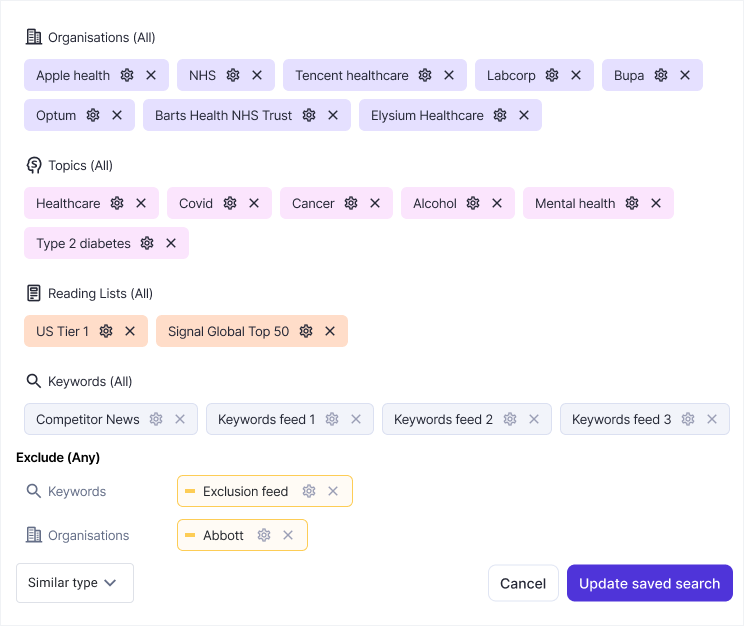
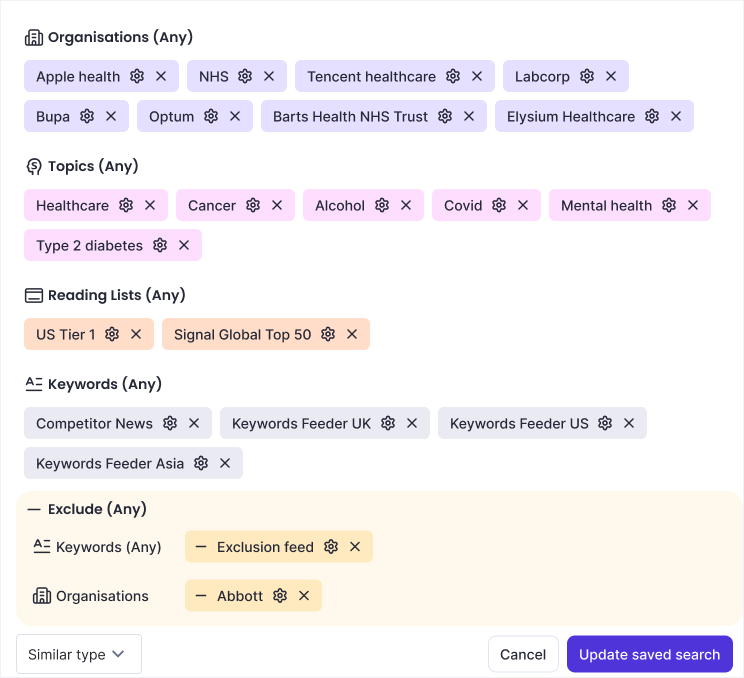
Invite readers into the book with a coffee mug, and stack the Year 4 screenshots
The Book option of the view switch shows a steaming mug. The quick scan
ends with one book invitation card, apart from the way back. Shift 03
shows before and after as two overlapping cards that swap on click.
Also takes in the updated structure-after screenshot and its description.

diff --git a/src/components/search-evolution/ScanPage.tsx b/src/components/search-evolution/ScanPage.tsx
@@ -11,6 +11,8 @@
 import { useState, type ReactNode } from 'react';
 import { ArrowLeft, ArrowRight, ChevronsLeftRight, MousePointerClick } from 'lucide-react';
 import { AskTopicsDemo, RefineDemo, SCALE_ROWS, Shot, USE_CASES } from './demos';
+import { HardcoverBook } from './HardcoverBook';
+import { SteamMug } from './StoryBook';
 
 const TAGS = ['Product design', 'Search', 'AI', 'B2B SaaS'];
 
@@ -170,6 +172,62 @@ function TwoStepShot({ steps, caption }: { steps: [Step, Step]; caption: ReactNo
         />
       </div>
       <figcaption className="mt-2 text-[12px] leading-5 text-muted-foreground">{caption}</figcaption>
+    </figure>
+  );
+}
+
+/**
+ * Two screenshots as a pile of two cards: the "after" lies partly over the
+ * "before". Clicking either card swaps which one is on top.
+ */
+function StackedShots({
+  before,
+  after,
+  caption,
+}: {
+  before: { src: string; alt: string };
+  after: { src: string; alt: string };
+  caption: ReactNode;
+}) {
+  const [front, setFront] = useState<'before' | 'after'>('after');
+  const card = (which: 'before' | 'after', shot: { src: string; alt: string }, place: string) => {
+    const onTop = front === which;
+    return (
+      <button
+        type="button"
+        onClick={() => setFront(onTop ? (which === 'before' ? 'after' : 'before') : which)}
+        aria-pressed={onTop}
+        aria-label={`${which === 'before' ? 'Before' : 'After'} screenshot, ${
+          onTop ? 'on top' : 'underneath: bring to the top'
+        }`}
+        className={`group absolute cursor-pointer rounded-xl transition-[transform,filter,opacity] duration-300 ease-out focus-visible:outline-2 focus-visible:outline-offset-2 focus-visible:outline-primary-strong motion-reduce:transition-none ${place} ${
+          onTop
+            ? 'z-[2] drop-shadow-[0_10px_18px_rgba(44,36,22,0.22)]'
+            : 'z-[1] scale-[0.97] opacity-80 saturate-[0.7] hover:opacity-100 hover:saturate-100'
+        }`}
+      >
+        <img src={shot.src} alt={shot.alt} className="block w-full" draggable={false} />
+        <span
+          className={`pointer-events-none absolute left-5 top-0 rounded-full px-2.5 py-1 shadow-sm text-[11px] font-medium uppercase tracking-[0.12em] ${
+            which === 'before' ? 'bg-white text-[#22242E]' : 'bg-[#22242E] text-white'
+          }`}
+          aria-hidden="true"
+        >
+          {which === 'before' ? 'Before' : 'After'}
+        </span>
+      </button>
+    );
+  };
+  return (
+    <figure>
+      <div className="relative aspect-[10/7]">
+        {card('before', before, 'left-0 top-0 w-[80%] origin-top-left')}
+        {card('after', after, 'bottom-0 right-0 w-[72%] origin-bottom-right')}
+      </div>
+      <figcaption className="mt-2 flex items-start gap-1.5 text-[12px] leading-5 text-muted-foreground">
+        <MousePointerClick className="mt-0.5 size-3.5 shrink-0" aria-hidden="true" />
+        <span>{caption}</span>
+      </figcaption>
     </figure>
   );
 }
@@ -462,7 +520,7 @@ export function ScanPage({
               }}
               after={{
                 src: img('structure-after.png'),
-                alt: 'After: the same kind of search as labelled rows. Organisations, Topics, Reading Lists and Keywords each have their own row, with a separate Exclude section below.',
+                alt: 'After: the same kind of search as labelled rows. Organisations, Topics, Reading Lists and Keywords each have their own colour-coded row, with a highlighted Exclude section below holding its own keywords and organisations.',
               }}
               caption="Product screenshots. Drag the divider: one unlabelled wall of terms, then the same kind of search as labelled rows."
             />
@@ -476,10 +534,16 @@ export function ScanPage({
             problem="Users could only group entities of the same type, so one question still needed several linked searches."
             design="Groups that mix companies, products and sources, each with its own AND, OR and NOT."
           >
-            <Shot
-              src={img('v2-search.png')}
-              alt="The old dark search builder behind the new one. The new builder has two groups of terms, each with its own AND or OR switch, and a separate exclusion group."
-              caption="Product screenshot. Mars and its products in one group, sources in another, exclusions in a third."
+            <StackedShots
+              before={{
+                src: img('grouping-before.png'),
+                alt: 'Before: three saved searches in the old dark builder, joined by red arrows. Each search pulls in other saved searches, such as Mars Food UK, which is itself built from separate Dolmio, Ben’s Original and Mars Food searches.',
+              }}
+              after={{
+                src: img('grouping-after.png'),
+                alt: 'After: one search in the new builder. A first group holds Mars, Inc., Mars Wrigley, Skittle and Mars (chocolate bar); a second group holds the sources Global Tier 1 and Premier Social. Each group has its own AND or OR switch, and a separate group lists the terms to exclude.',
+              }}
+              caption="Product screenshots. Click either one to bring it to the top: several linked searches, then one search with its own groups."
             />
           </ShiftRow>
 
@@ -617,29 +681,47 @@ export function ScanPage({
         </div>
       </section>
 
-      {/* ── The way out, and the way into the book ─────────────────────────── */}
-      <footer className="mt-20 flex flex-wrap items-center justify-between gap-4 border-t border-foreground/10 pt-8">
+      {/* ── The way into the book ──────────────────────────────────────────── */}
+      <section
+        aria-labelledby="book-invite"
+        className="group/invite mt-20 grid items-center gap-x-10 gap-y-6 overflow-hidden rounded-2xl border border-foreground/10 bg-gradient-to-b from-secondary to-[#F1D9C8] px-6 py-8 sm:grid-cols-[auto_minmax(0,1fr)] sm:px-10"
+      >
+        <div className="mx-auto h-52 w-44 transition-transform duration-500 ease-out group-hover/invite:-translate-y-1.5 group-hover/invite:rotate-[-2deg] motion-reduce:transition-none sm:mx-0">
+          <HardcoverBook className="size-full [--u:5.5px]" />
+        </div>
         <div>
-          <p className="text-base font-medium text-foreground">Want the reasoning behind each step?</p>
-          <p className="mt-1 text-sm text-muted-foreground">
+          <p className="text-[11px] font-medium uppercase tracking-[0.14em] text-primary-strong">
+            Got time for a coffee?
+          </p>
+          <h2 id="book-invite" className="mt-2 text-xl font-semibold leading-snug text-foreground">
+            Want the reasoning behind each step?
+          </h2>
+          <p className="mt-2 max-w-xl text-sm leading-6 text-foreground/80">
             The full story is told as a short book, with demos you can try.
           </p>
-        </div>
-        <div className="flex flex-wrap items-center gap-3">
-          <a
-            href={`${basePath}/`}
-            className="inline-flex items-center gap-1.5 rounded-full border border-foreground/20 px-4 py-2 text-sm font-medium text-foreground transition-colors hover:border-foreground/50"
-          >
-            <ArrowLeft className="size-4" strokeWidth={2.25} aria-hidden="true" /> Back to portfolio
-          </a>
           {bookLink(
             <>
-              Read it as a book{' '}
-              <ArrowRight className="size-4" strokeWidth={2.25} aria-hidden="true" />
+              <SteamMug steaming className="size-[18px]" />
+              Read it as a book
+              <ArrowRight
+                className="size-4 transition-transform group-hover/cta:translate-x-1 motion-reduce:transition-none"
+                strokeWidth={2.25}
+                aria-hidden="true"
+              />
             </>,
-            'inline-flex cursor-pointer items-center gap-1.5 rounded-full bg-foreground px-4 py-2 text-sm font-medium text-background',
+            'group/cta mt-5 inline-flex cursor-pointer items-center gap-2 rounded-full bg-foreground px-5 py-2.5 text-sm font-medium text-background transition-shadow hover:shadow-lg',
           )}
         </div>
+      </section>
+
+      {/* ── The way out ────────────────────────────────────────────────────── */}
+      <footer className="mt-10 border-t border-foreground/10 pt-6">
+        <a
+          href={`${basePath}/`}
+          className="inline-flex items-center gap-1.5 text-sm font-medium text-foreground underline decoration-primary decoration-2 underline-offset-4 transition-colors hover:decoration-foreground"
+        >
+          <ArrowLeft className="size-4" strokeWidth={2.25} aria-hidden="true" /> Back to portfolio
+        </a>
       </footer>
     </div>
   );

diff --git a/src/components/search-evolution/StoryBook.tsx b/src/components/search-evolution/StoryBook.tsx
@@ -245,15 +245,20 @@ export const BOOK_CSS = `${HARDCOVER_CSS}
   @keyframes arriveLine { from { transform: scaleX(0); } to { transform: none; } }
   .arrive[data-play='true'] .arrive-rise { animation: arriveRise 0.8s cubic-bezier(0.2, 0.7, 0.2, 1) 1900ms both; }
   @keyframes arriveRise { from { opacity: 0; transform: translateY(10px); } to { opacity: 1; transform: none; } }
-  /* The book invitation: a page of the little book turns, which is what the
-     book view does. Once on arrival, and again when the invitation is pointed at. */
-  .flipbook-page { transform-box: view-box; transform-origin: 12px 12px; opacity: 0; }
-  .flipbook-auto .flipbook-page { animation: flipPage 1.1s cubic-bezier(0.45, 0, 0.25, 1) 1.6s 2 both; }
-  :is(button:hover, button:focus-visible) .flipbook-page { animation: flipPageAgain 0.9s cubic-bezier(0.45, 0, 0.25, 1) both; }
-  @keyframes flipPage { 0% { transform: scaleX(1); opacity: 0; } 15% { opacity: 1; } 85% { opacity: 1; } 100% { transform: scaleX(-1); opacity: 0; } }
-  @keyframes flipPageAgain { 0% { transform: scaleX(1); opacity: 0; } 15% { opacity: 1; } 85% { opacity: 1; } 100% { transform: scaleX(-1); opacity: 0; } }
+  /* The book invitation: a mug of coffee, because the book takes a coffee's
+     worth of time. Its steam rises only while it is inviting (.steam-on), and
+     quickens a little when the invitation is pointed at. */
+  .steam-on .steam-wisp { animation: steamRise 2.6s ease-in-out infinite both; }
+  .steam-on .steam-wisp:nth-child(2) { animation-delay: 0.5s; }
+  .steam-on .steam-wisp:nth-child(3) { animation-delay: 1s; }
+  :is(button, a):is(:hover, :focus-visible) .steam-on .steam-wisp { animation-duration: 1.5s; }
+  @keyframes steamRise {
+    0% { transform: translateY(2.5px); opacity: 0; }
+    35% { opacity: 1; }
+    100% { transform: translateY(-2.5px); opacity: 0; }
+  }
   @media (prefers-reduced-motion: reduce) {
-    .flipbook-page,
+    .steam-wisp,
     .book, .book-sheet, .book-sheet-z, .book-face, .book-fade, .arrive-pill, .arrive-line, .arrive-rise, .book-fold-out, .book-fold-in, .book-fold-shade { animation: none !important; transition: none !important; }
   }
 `;
@@ -271,26 +276,24 @@ function PageNumber({ n, side }: { n: number; side: 'left' | 'right' }) {
   );
 }
 
-/** A small open book whose right-hand page turns over (see `.flipbook-page`). */
-function FlipBook({ auto, className }: { auto?: boolean; className?: string }) {
+/** A mug of coffee. With `steaming`, its steam rises (see `.steam-wisp`). */
+export function SteamMug({ steaming, className }: { steaming?: boolean; className?: string }) {
   return (
     <svg
       viewBox="0 0 24 24"
       fill="none"
       stroke="currentColor"
       strokeWidth={1.75}
+      strokeLinecap="round"
       strokeLinejoin="round"
-      className={`${auto ? 'flipbook-auto' : ''} ${className ?? ''}`}
+      className={`${steaming ? 'steam-on' : ''} ${className ?? ''}`}
       aria-hidden="true"
     >
-      <path d="M12 6.5C10 5 6 5 3 6v12c3-1 7-1 9 .5Z" />
-      <path d="M12 6.5C14 5 18 5 21 6v12c-3-1-7-1-9 .5Z" />
-      <path
-        className="flipbook-page"
-        d="M12 6.5C14 5 18 5 21 6v12c-3-1-7-1-9 .5Z"
-        fill="currentColor"
-        fillOpacity={0.25}
-      />
+      <path className="steam-wisp" d="M7.5 7.5c-.9-1.1.9-2.1 0-3.5" />
+      <path className="steam-wisp" d="M11 7.5c-.9-1.1.9-2.1 0-3.5" />
+      <path className="steam-wisp" d="M14.5 7.5c-.9-1.1.9-2.1 0-3.5" />
+      <path d="M4.5 10.5h13v5.5a4.5 4.5 0 0 1-4.5 4.5H9A4.5 4.5 0 0 1 4.5 16Z" />
+      <path d="M17.5 12h1a2.5 2.5 0 0 1 0 5h-1.2" />
     </svg>
   );
 }
@@ -309,7 +312,11 @@ function ViewToggle({
       aria-pressed={active}
       onClick={() => onChange(value)}
       className={`inline-flex cursor-pointer items-center gap-1.5 rounded-full px-3 py-1 text-xs transition-colors ${
-        active ? 'bg-foreground text-background' : 'text-muted-foreground hover:text-foreground'
+        active
+          ? 'bg-foreground text-background'
+          : value
+            ? 'text-muted-foreground hover:text-foreground'
+            : 'font-medium text-primary-strong hover:bg-primary/15'
       }`}
     >
       {icon}
@@ -322,7 +329,7 @@ function ViewToggle({
       aria-label="How to read this case study"
       className="flex items-center gap-0.5 rounded-full border border-foreground/15 p-0.5"
     >
-      {option(!onePage, 'Book', <FlipBook className="size-3.5" />, false)}
+      {option(!onePage, 'Book', <SteamMug steaming={onePage} className="size-4" />, false)}
       {option(onePage, 'One page', <Rows3 className="size-3.5" aria-hidden="true" />, true)}
     </div>
   );
